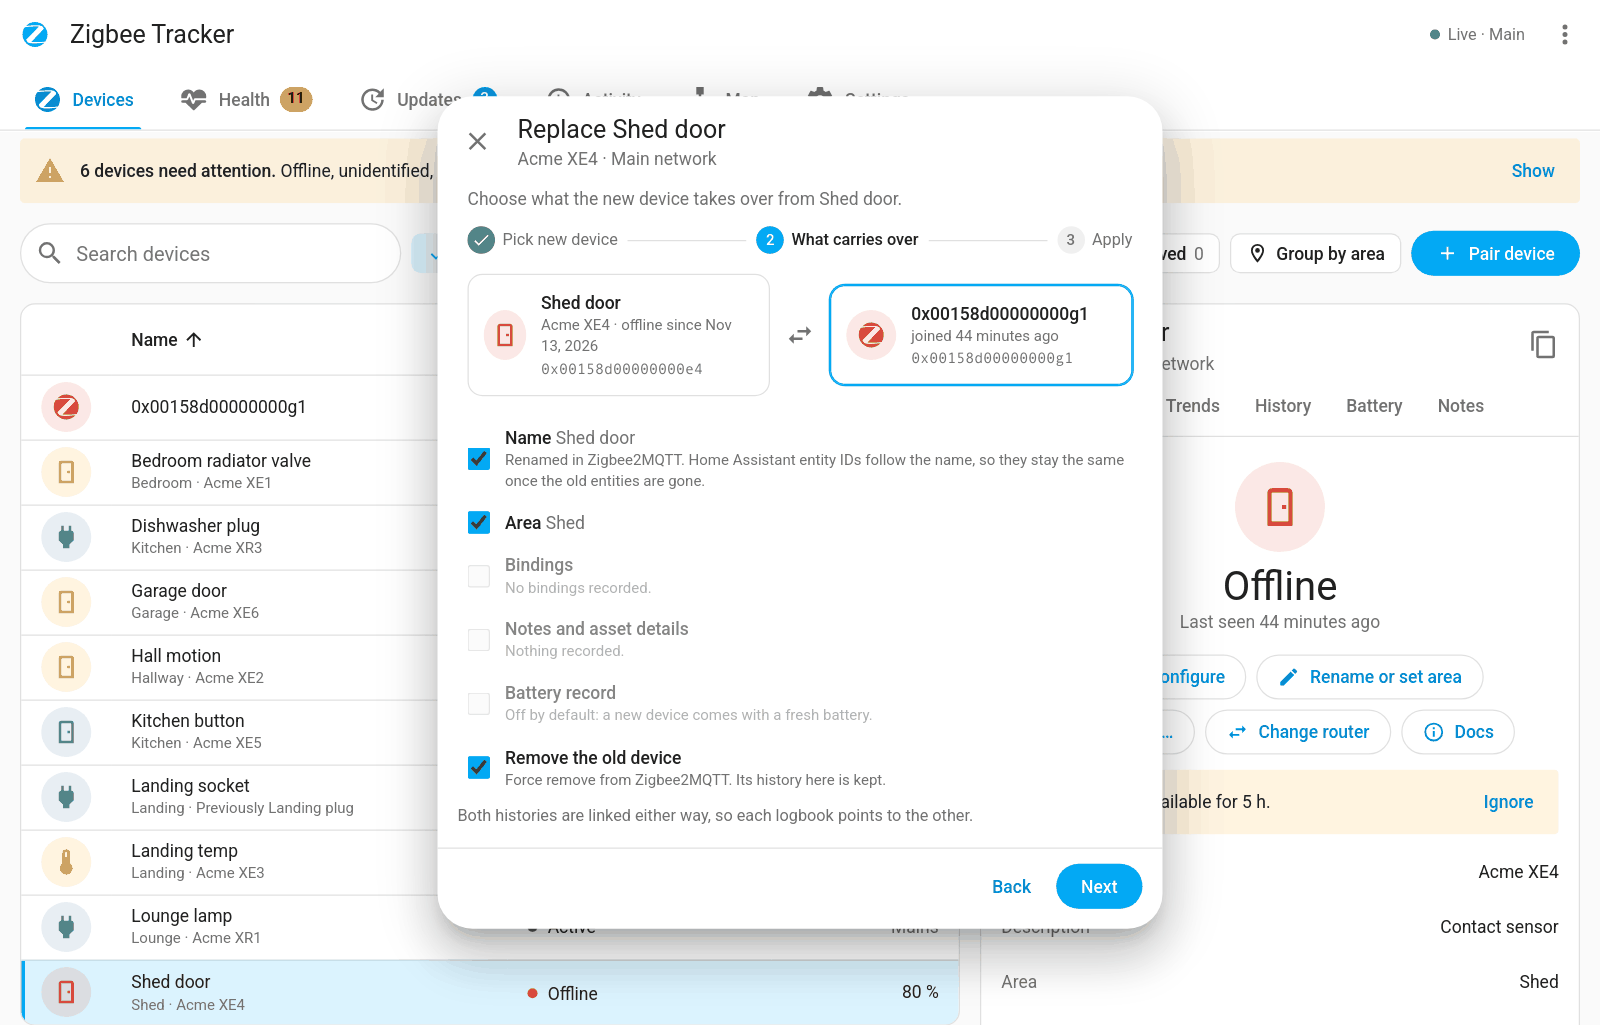
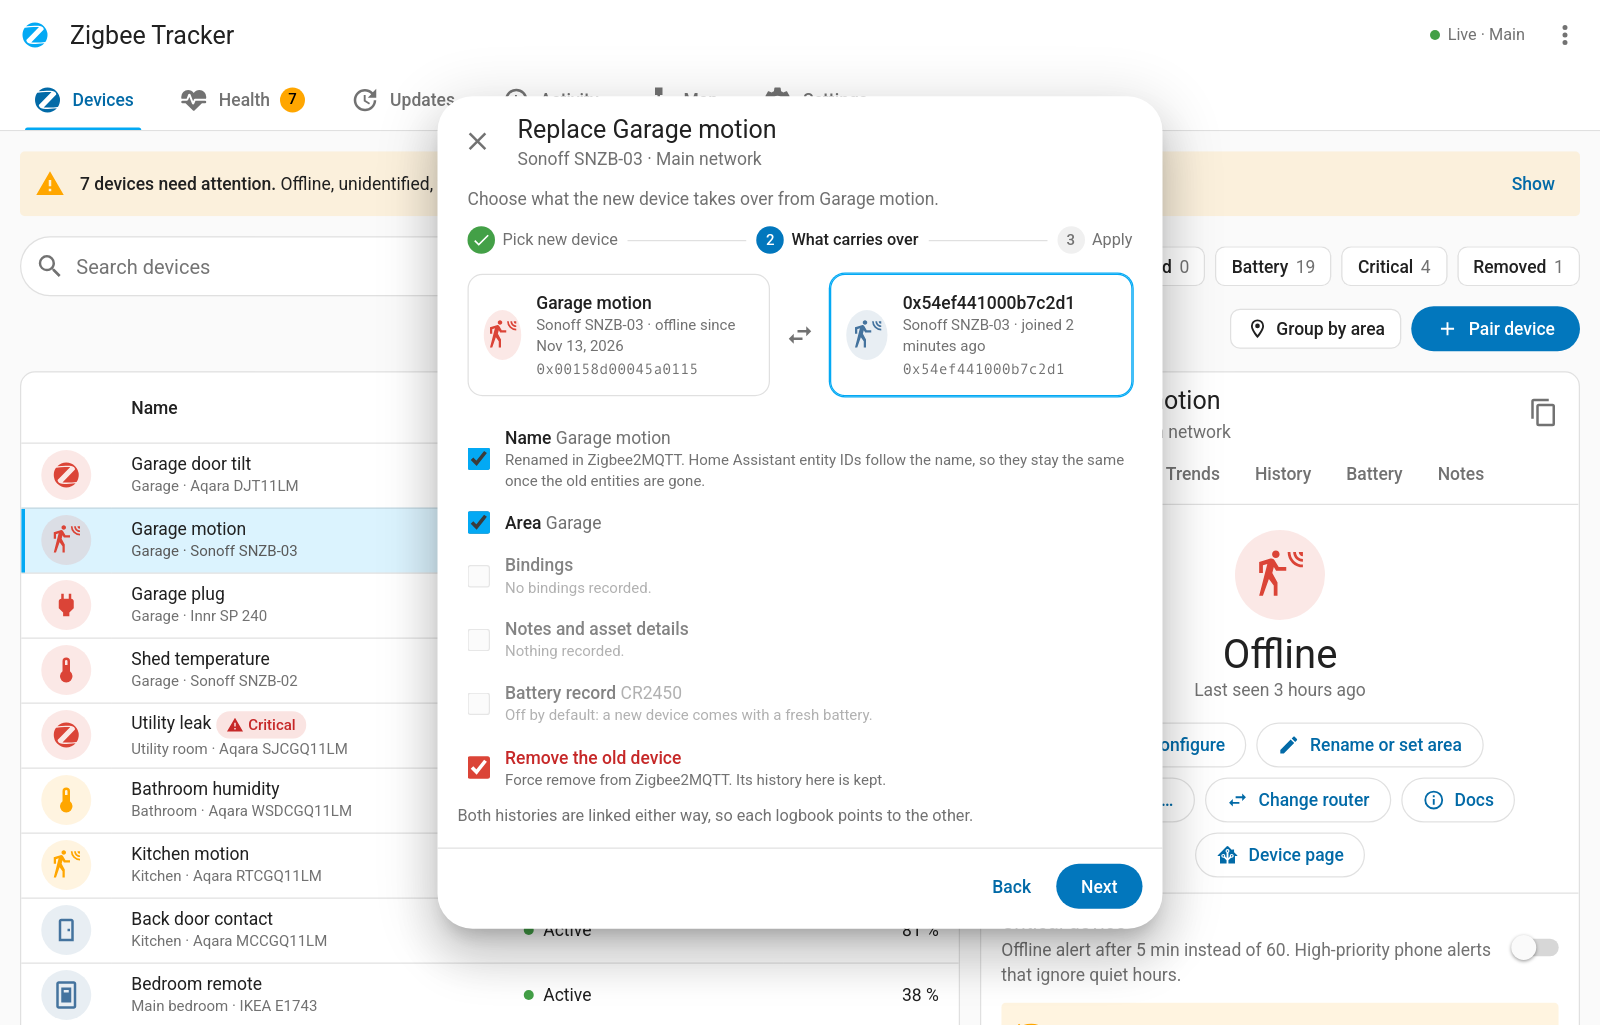
Z2M Device Tracker 1.2.0
Bump the app, integration and card to 1.2.0, write the 1.2.0 changelog
in both copies, list the new alerting, checks, phone layout and
coordinator features in both READMEs, and add or refresh screenshots
made from the real sidebar code with demo data.

diff --git a/custom_components/z2m_tracker/www/z2m-tracker-card.js b/custom_components/z2m_tracker/www/z2m-tracker-card.js
@@ -1,6 +1,6 @@
 // /config/custom_components/z2m_tracker/www/z2m-tracker-card.js
 // Compact Home Assistant card summarising the Z2M Device Tracker app.
-const Z2M_TRACKER_CARD_VERSION = "1.1.0";
+const Z2M_TRACKER_CARD_VERSION = "1.2.0";
 
 const IEEE_RE = /^0x[0-9a-f]{16}$/i;
 const esc = (v) => String(v ?? "").replace(/[&<>"']/g, (c) => ({ "&": "&amp;", "<": "&lt;", ">": "&gt;", '"': "&quot;", "'": "&#39;" })[c]);

diff --git a/z2m_tracker/app/main.py b/z2m_tracker/app/main.py
@@ -32,7 +32,7 @@ from tracker import _display_name as tracker_display_name
 logging.basicConfig(level=logging.INFO, format="%(asctime)s %(levelname)s %(message)s", stream=sys.stdout)
 _LOGGER = logging.getLogger("z2m_tracker")
 
-VERSION = "1.1.0"
+VERSION = "1.2.0"
 PORT = 8099
 DATA_PATH = "/data/history.json"
 METRICS_PATH = "/data/metrics.json"

diff --git a/custom_components/z2m_tracker/const.py b/custom_components/z2m_tracker/const.py
@@ -1,7 +1,7 @@
 """Constants for Z2M Device Tracker."""
 
 DOMAIN = "z2m_tracker"
-VERSION = "1.1.0"
+VERSION = "1.2.0"
 
 CONF_APP_URL = "app_url"
 CONF_REPAIRS = "repairs"

diff --git a/README.md b/README.md
@@ -37,13 +37,13 @@ It has two parts, both in this repository:
 ## Features
 
 - **Device history**: names, renames, model, firmware, area, joins, leaves and removals, with notes and asset details.
-- **Health checks and alerts**: offline, silent, frozen readings, weak or dropping signal, low battery, failed interviews, unidentified devices. Alerts go to HA notifications, events or a notify service. Pause them all during planned work.
-- **More checks**: flapping devices, chatty devices, fast battery drain, lost bindings, single points of failure (routers), and a missing, stale or mismatched coordinator backup. They show in Health and only notify once you turn them on.
+- **Health checks and alerts**: offline, silent, frozen readings, weak or dropping signal, low battery, failed interviews, unidentified devices. Alerts go to HA notifications, events or a notify service. Set how often each device should report, mark smoke and leak sensors as critical so they alert within minutes, hold alerts overnight for one morning summary, and pause them all during planned work. Devices behind a router that goes offline arrive as one alert, not dozens.
+- **More checks**: flapping devices, chatty devices, fast battery drain, lost bindings, single points of failure (routers), end devices that keep changing router, routers getting slower, Zigbee group members offline, a daily network-wide signal dip, pairing left open, Zigbee2MQTT memory growth, and a missing, stale or mismatched coordinator backup. They show in Health and only notify once you turn them on.
 - **Bindings and traffic**: each device's current and lost bindings with a history of changes and a Restore button for each lost one, its message rates, and Zigbee2MQTT's own message, leave and address-change counters.
-- **Coordinator health**: Zigbee2MQTT version, coordinator firmware, uptime, restarts, outages and coordinator backup, and an alert when a network goes offline.
+- **Coordinator health**: Zigbee2MQTT version, coordinator firmware, uptime, restarts, outages and coordinator backup, how Zigbee2MQTT reaches the coordinator, Zigbee2MQTT's own memory and MQTT traffic, and an alert when a network goes offline.
 - **Radio channels**: shows your Zigbee channels against your 2.4 GHz Wi-Fi channels and warns about overlap.
-- **Network map**: interactive map with advice on which router a device should use and which routers are a single point of failure, nightly routing scans, a before/after comparison between scans, and a floor-plan layout that groups devices by Home Assistant floor and area. Click a group in the legend (routers, battery devices, needs attention) to show only those devices.
-- **Device actions**: pair through a chosen router, move a device to another router, reconfigure, rename, set area, OTA updates. Names and areas stay in step with Home Assistant: a change made there shows in the app within seconds.
+- **Network map**: interactive map with advice on which router a device should use and which routers are a single point of failure, nightly routing scans, a before/after comparison between scans, and a floor-plan layout that groups devices by Home Assistant floor and area. Click a group in the legend (routers, battery devices, needs attention) to show only those devices, hide names you don't need, and show only the problem links on the floor plan.
+- **Device actions**: pair through a chosen router, move a device to another router, ping a mains device, reconfigure, rename, set area, OTA updates. Find and remove Zigbee2MQTT devices left behind in Home Assistant. Names and areas stay in step with Home Assistant: a change made there shows in the app within seconds.
 - **Firmware updates**: one list of every device with an update, installed and available versions, update all one device at a time, an optional overnight window that skips low batteries, and a log of past updates.
 - **Replace a device**: swap a dead device for a new one in three steps. The new device takes over its name, area, bindings, notes and, if you want, battery record, the old one is removed from Zigbee2MQTT, and both histories are linked.
 - **Batteries**: battery type and count (built-in library from Battery Notes), replacement records, estimates and a shopping list that counts the spares you have in stock. With the integration, the shopping list is a Home Assistant to-do list (tick an item to mark those batteries replaced) and a calendar shows each predicted replacement date.
@@ -51,6 +51,7 @@ It has two parts, both in this repository:
 - **Home Assistant entities**: MQTT discovery sensors attached to each Zigbee2MQTT device for use in automations.
 - **Actions for automations** (integration): record a battery change, mute a device, run a network scan, reconfigure, start a firmware update, add to a device's note, pause and resume alerts. Pick devices by name.
 - **Your language**: the sidebar, the dashboard cards and the setup screens follow the language in your Home Assistant profile, or one you pick in Settings. Available in English, German, Dutch, French, Spanish, Italian, Polish, Brazilian Portuguese, Swedish, Czech, Russian and Simplified Chinese. [CONTRIBUTING.md](CONTRIBUTING.md) explains how to add or fix a translation.
+- **Works on a phone**: a bottom tab bar, problems first, pinch zoom on the map, and keyboard and screen reader support on every screen.
 - Weekly summary, temporary ignore, backup and restore, CSV export.
 
 ## Screenshots
@@ -71,6 +72,14 @@ It has two parts, both in this repository:
   <tr>
     <td width="50%" valign="top"><img src="https://raw.githubusercontent.com/tempus2016/z2m-device-tracker/main/docs/images/trends.png" alt="A device's link quality and battery over 30 days"><br><b>Trends</b>: link quality and battery over up to 90 days</td>
     <td width="50%" valign="top"><img src="https://raw.githubusercontent.com/tempus2016/z2m-device-tracker/main/docs/images/replace-wizard.png" alt="Choosing what a new device takes over from the one it replaces"><br><b>Replace a device</b>: the new one takes over name, area and setup</td>
+  </tr>
+  <tr>
+    <td width="50%" valign="top"><img src="https://raw.githubusercontent.com/tempus2016/z2m-device-tracker/main/docs/images/device-health.png" alt="A device's Health tab: when it alerts, expected reporting and its own limits"><br><b>When a device alerts</b>: expected reporting and per-device limits</td>
+    <td width="50%" valign="top"><img src="https://raw.githubusercontent.com/tempus2016/z2m-device-tracker/main/docs/images/alert-settings.png" alt="Quiet hours, critical devices and a pause banner in Settings"><br><b>Quiet hours and pause</b>: hold alerts overnight, pause during planned work</td>
+  </tr>
+  <tr>
+    <td width="50%" valign="top"><img src="https://raw.githubusercontent.com/tempus2016/z2m-device-tracker/main/docs/images/health-phone.png" alt="The Health tab on a phone, problems first, with a bottom tab bar"><br><b>On a phone</b>: problems first, tabs at the bottom</td>
+    <td width="50%" valign="top"><img src="https://raw.githubusercontent.com/tempus2016/z2m-device-tracker/main/docs/images/coordinators.png" alt="Coordinator connection, versions and Zigbee2MQTT memory"><br><b>Coordinators</b>: connection, versions and Zigbee2MQTT memory</td>
   </tr>
 </table>
 

diff --git a/CHANGELOG.md b/CHANGELOG.md
@@ -1,13 +1,39 @@
 # Changelog
 
-## Unreleased
+## 1.2.0
 
 ### Added
-- Translations into German, Dutch, French, Spanish, Italian, Polish, Brazilian Portuguese, Swedish, Czech, Russian and Simplified Chinese. They cover the sidebar, the app's options, and the integration's setup, actions and dashboard cards. Each follows your Home Assistant profile language; the sidebar's Settings can pick another. The translations are machine-made, so corrections from native speakers are welcome.
+- Expected reporting: set how often a device should report, from 30 seconds to 7 days, on its Health tab. A device that goes quiet for longer is flagged as Stopped reporting, even while Zigbee2MQTT still shows it online. Settings → Thresholds → Expected reporting → Set for many devices… sets it for mains or battery devices at once, from each device's usual gap times 2, 3, 5 or 10.
+- When this device alerts: each device's Health tab shows how long it takes to alert, adding Zigbee2MQTT's availability timeout to `offline_alert_minutes`.
+- Router outages: when a router goes offline, the devices behind it are grouped under it as one issue and one notification instead of one each.
+- Pause alerts: ⋮ → Pause alerts for 30 min, 1 hour, 4 hours, until 08:00 or until resumed. Issues still open when the pause ends are sent once. The integration has `z2m_tracker.pause_alerts` and `z2m_tracker.resume_alerts`.
+- Critical devices: turn on Critical device on a device's Info tab. It alerts after `critical_offline_minutes` (default 5), its titles start with "Critical:", phone notifications are sent high priority / time-sensitive, and it ignores quiet hours.
+- Quiet hours: with `quiet_hours` on, alerts between `quiet_start` and `quiet_end` are held and sent as one morning summary.
+- Per-device limits: a device's Health tab can override the low battery level and the frozen reading time.
+- New checks: Pairing left open (also when something else opened it, with Close now), Changes router often, Router getting slower, Zigbee2MQTT memory, Group members offline, and Daily signal dip. Health has a Groups card listing every Zigbee2MQTT group and its members.
+- Ping: mains devices have a Ping button on the Info tab that shows the reply time. Routers are pinged once a night and the Trends tab shows the last 14 nights. Needs Zigbee2MQTT 2.7+.
+- Coordinators card: Zigbee2MQTT's own memory, MQTT traffic and leaves this week (Zigbee2MQTT 2.5+), and how it reaches the coordinator (TCP, mDNS or USB) with the adapter, versions and settings under More details.
+- Leftover in Home Assistant: Health lists Zigbee2MQTT devices that were removed from Zigbee2MQTT but stayed in Home Assistant with dead entities. Review and remove deletes the ones you tick.
+- Battery stock: record the spare batteries you have. The shopping list says how many to buy, and recording a battery change takes from stock.
+- Phone layout: a bottom tab bar, problems first on Health, jump chips in Settings and pinch zoom on the map. Taps no longer leave rows highlighted, inputs no longer zoom the page on iOS, and dialogs fit the screen.
+- Charts show the date and value under the pointer or finger, on every chart in the sidebar.
+- Network map: a Names option (All, Routers only, Off). The floor plan has a Links switch (Off, Problems, All) that defaults to Problems, so big networks stay readable; hovering a room shows its links and fades the rest.
+- Translations into German, Dutch, French, Spanish, Italian, Polish, Brazilian Portuguese, Swedish, Czech, Russian and Simplified Chinese. They cover the sidebar, the app's options, and the integration's setup, actions and dashboard cards. Each follows your Home Assistant profile language; the sidebar's Settings can pick another. The translations are machine-made, so corrections from native speakers are welcome. Text added in this release is English only for now.
 - The dashboard cards are translated too. They read the app's translation files through the integration, so they need this version of the app as well. With an older app they stay in English. Cards added before this version saved an English title in their settings: clear the Title field to get the translated one.
 
+### Changed
+- The replace wizard's Remove the old device option starts ticked only when the old device is offline, and shows in red when it will run.
+- The Coordinators card on Health is shorter: five facts per network, the rest under More details. An offline network or one with a memory warning opens expanded.
+- Every dropdown in the sidebar draws its own arrow, clear of the border.
+
 ### Fixed
-- A regional language such as Portuguese (Portugal) now picks the closest translation (Brazilian Portuguese) instead of falling back to English.
+- Text and buttons in the sidebar pass WCAG AA contrast in light and dark themes.
+- The sidebar works from the keyboard and with screen readers: focus stays put when the view refreshes, the map and signal bars are announced, and titles are real headings. Buttons and chips answer taps across at least 44 × 44 px on touch screens.
+- The Health badge matches the Needs attention count. Firmware updates now show on the Updates tab only.
+- Settings → Repairs stays empty while Send alerts is off in the app.
+- The battery chart no longer reads as 100 % for a device at 0 %, and a replacement logged this morning shows.
+- Map names no longer stay open after a tap on a phone.
+- A regional language such as Portuguese (Portugal) picks the closest translation (Brazilian Portuguese) instead of falling back to English.
 
 ## 1.1.0
 

diff --git a/z2m_tracker/CHANGELOG.md b/z2m_tracker/CHANGELOG.md
@@ -1,13 +1,39 @@
 # Changelog
 
-## Unreleased
+## 1.2.0
 
 ### Added
-- Translations into German, Dutch, French, Spanish, Italian, Polish, Brazilian Portuguese, Swedish, Czech, Russian and Simplified Chinese. They cover the sidebar, the app's options, and the integration's setup, actions and dashboard cards. Each follows your Home Assistant profile language; the sidebar's Settings can pick another. The translations are machine-made, so corrections from native speakers are welcome.
+- Expected reporting: set how often a device should report, from 30 seconds to 7 days, on its Health tab. A device that goes quiet for longer is flagged as Stopped reporting, even while Zigbee2MQTT still shows it online. Settings → Thresholds → Expected reporting → Set for many devices… sets it for mains or battery devices at once, from each device's usual gap times 2, 3, 5 or 10.
+- When this device alerts: each device's Health tab shows how long it takes to alert, adding Zigbee2MQTT's availability timeout to `offline_alert_minutes`.
+- Router outages: when a router goes offline, the devices behind it are grouped under it as one issue and one notification instead of one each.
+- Pause alerts: ⋮ → Pause alerts for 30 min, 1 hour, 4 hours, until 08:00 or until resumed. Issues still open when the pause ends are sent once. The integration has `z2m_tracker.pause_alerts` and `z2m_tracker.resume_alerts`.
+- Critical devices: turn on Critical device on a device's Info tab. It alerts after `critical_offline_minutes` (default 5), its titles start with "Critical:", phone notifications are sent high priority / time-sensitive, and it ignores quiet hours.
+- Quiet hours: with `quiet_hours` on, alerts between `quiet_start` and `quiet_end` are held and sent as one morning summary.
+- Per-device limits: a device's Health tab can override the low battery level and the frozen reading time.
+- New checks: Pairing left open (also when something else opened it, with Close now), Changes router often, Router getting slower, Zigbee2MQTT memory, Group members offline, and Daily signal dip. Health has a Groups card listing every Zigbee2MQTT group and its members.
+- Ping: mains devices have a Ping button on the Info tab that shows the reply time. Routers are pinged once a night and the Trends tab shows the last 14 nights. Needs Zigbee2MQTT 2.7+.
+- Coordinators card: Zigbee2MQTT's own memory, MQTT traffic and leaves this week (Zigbee2MQTT 2.5+), and how it reaches the coordinator (TCP, mDNS or USB) with the adapter, versions and settings under More details.
+- Leftover in Home Assistant: Health lists Zigbee2MQTT devices that were removed from Zigbee2MQTT but stayed in Home Assistant with dead entities. Review and remove deletes the ones you tick.
+- Battery stock: record the spare batteries you have. The shopping list says how many to buy, and recording a battery change takes from stock.
+- Phone layout: a bottom tab bar, problems first on Health, jump chips in Settings and pinch zoom on the map. Taps no longer leave rows highlighted, inputs no longer zoom the page on iOS, and dialogs fit the screen.
+- Charts show the date and value under the pointer or finger, on every chart in the sidebar.
+- Network map: a Names option (All, Routers only, Off). The floor plan has a Links switch (Off, Problems, All) that defaults to Problems, so big networks stay readable; hovering a room shows its links and fades the rest.
+- Translations into German, Dutch, French, Spanish, Italian, Polish, Brazilian Portuguese, Swedish, Czech, Russian and Simplified Chinese. They cover the sidebar, the app's options, and the integration's setup, actions and dashboard cards. Each follows your Home Assistant profile language; the sidebar's Settings can pick another. The translations are machine-made, so corrections from native speakers are welcome. Text added in this release is English only for now.
 - The dashboard cards are translated too. They read the app's translation files through the integration, so they need this version of the app as well. With an older app they stay in English. Cards added before this version saved an English title in their settings: clear the Title field to get the translated one.
 
+### Changed
+- The replace wizard's Remove the old device option starts ticked only when the old device is offline, and shows in red when it will run.
+- The Coordinators card on Health is shorter: five facts per network, the rest under More details. An offline network or one with a memory warning opens expanded.
+- Every dropdown in the sidebar draws its own arrow, clear of the border.
+
 ### Fixed
-- A regional language such as Portuguese (Portugal) now picks the closest translation (Brazilian Portuguese) instead of falling back to English.
+- Text and buttons in the sidebar pass WCAG AA contrast in light and dark themes.
+- The sidebar works from the keyboard and with screen readers: focus stays put when the view refreshes, the map and signal bars are announced, and titles are real headings. Buttons and chips answer taps across at least 44 × 44 px on touch screens.
+- The Health badge matches the Needs attention count. Firmware updates now show on the Updates tab only.
+- Settings → Repairs stays empty while Send alerts is off in the app.
+- The battery chart no longer reads as 100 % for a device at 0 %, and a replacement logged this morning shows.
+- Map names no longer stay open after a tap on a phone.
+- A regional language such as Portuguese (Portugal) picks the closest translation (Brazilian Portuguese) instead of falling back to English.
 
 ## 1.1.0
 

diff --git a/z2m_tracker/README.md b/z2m_tracker/README.md
@@ -9,14 +9,15 @@ Ever had a device show up as `0x30eb5affff5cf5ca` and had no idea what it used t
 ## What you get
 
 - **Device history**: every name, rename, model, firmware, area, join, leave and removal, with notes and asset details. Kept after a device leaves.
-- **Health checks and alerts**: offline, silent, frozen readings, weak or dropping signal, low battery, lost bindings, failed interviews, flapping and chatty devices, fast battery drain, single points of failure and coordinator backups. Alerts go to Home Assistant notifications, events or any notify service.
+- **Health checks and alerts**: offline, silent, frozen readings, weak or dropping signal, low battery, lost bindings, failed interviews, flapping and chatty devices, fast battery drain, single points of failure and coordinator backups. Also pairing left open, routers getting slower, group members offline and daily signal dips. Alerts go to Home Assistant notifications, events or any notify service, with critical devices, quiet hours with a morning summary, and a pause for planned work.
 - **Firmware updates**: every device with an update in one list, installed one at a time, with an optional overnight window that skips low batteries.
 - **Network map**: which router each device uses and how strong the link is, as a graph or a floor plan by Home Assistant floor and area, with advice on better routers and nightly routing scans.
 - **Trends**: each device's link quality and battery over up to 90 days, with a projection of when the battery runs low.
 - **Device actions**: pair through a chosen router, move a device to a closer router, rename, set area, reconfigure, restore lost bindings, and replace a dead device with a new one.
 - **Batteries**: battery types from a built-in library, replacement records, estimates and a shopping list that counts your spares.
-- **Coordinator and radio**: Zigbee2MQTT and coordinator versions, uptime, outages and backups, and your Zigbee channels checked against your Wi-Fi.
+- **Coordinator and radio**: Zigbee2MQTT and coordinator versions, uptime, outages, backups and memory use, and your Zigbee channels checked against your Wi-Fi.
 - **Home Assistant entities**: tracker sensors added to each Zigbee2MQTT device, for automations.
+- **On your phone**: a bottom tab bar, problems first and pinch zoom on the map.
 - Names and areas stay in step with Home Assistant. The sidebar follows your profile language, in 12 languages.
 
 | Firmware updates | Floor plan |
